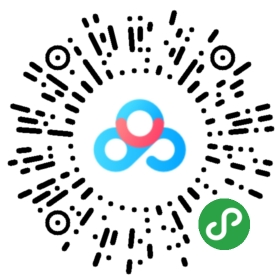
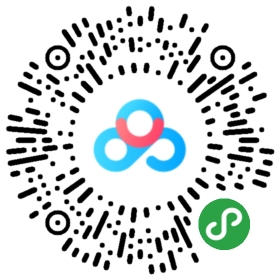
更新QR、ReadMe

Changed region(s): [[0.0, 0.0, 1.0, 1.0], [0.2571, 0.8857, 0.3143, 0.9429], [0.2286, 0.8286, 0.2571, 0.8857]]

diff --git a/README.md b/README.md
@@ -21,11 +21,11 @@ web-mobile ：
 
 android app
 ----------------------------------------------------
-自架服务器：http://129.211.157.233:9279/DreamVortexDownload/DreamVortex-release-signed-201911302308.apk
+自架服务器：http://129.211.157.233:9279/DreamVortexDownload/DreamVortex-release-signed-201912020150.apk
 
 ![Image text](https://github.com/Rythenov/DreamVortex-CocosCreator-Game/blob/master/assets/resources/QR/ApkQR.png)
 
-百度云微信扫一扫：https://pan.baidu.com/s/1UYnEhvbNK-5H1RmHilAePg 
+百度云微信扫一扫：https://pan.baidu.com/s/1zH--0Ndy6dyfdXxXOVAyIQ
 
 ![Image text](https://github.com/Rythenov/DreamVortex-CocosCreator-Game/blob/master/assets/resources/QR/ApkBaiduNetDiskQR.png)
 
@@ -33,18 +33,30 @@ android app
 
 
 # 更新日志
+2019-12-03 23：06 更新
+----------------------------------
+commit：
+1.封装部分资源读取函数到window.Global。
+2.实现动态加载json。
+3.完善Main界面，添加滚动背景、滚动按钮、头像按职业读取、经验条（此处图片资源没做好）、玩家名称显示、按钮阴影效果。
+4.添加Card、Attack、Shop界面，添加简单的返回方便调试。
+on the way:
+工作日少量更新该项目，主要学习Nodejs服务器开发，先把服务器架起来，请关注：https://github.com/Rythenov/DreamVortex-Server-NodeJs
+1.实现登录、注册。
+2.实现用户信息的保存与拉取。
+
+
+
 2019-11-30  22：37 更新
 -----------------------------------------------------
-目前包含登录和创建角色界面
-登录：Hello.fire
-创建角色：createPlayer.fire
+目前包含登录和创建角色界面。
+登录：Hello.fire。
+创建角色：createPlayer.fire。
 
 
 
 2019-11-29 23：00 更新
 -------------------------
-算是一个cocos creator js学习项目
-
-目前想做成卡牌游戏但是具体的玩法细节还没有思考
-
-先学习开发吧，资源随便弄的，慢慢迭代
+算是一个cocos creator js学习项目。
+目前想做成卡牌游戏但是具体的玩法细节还没有思考。
+先学习开发吧，资源随便弄的，慢慢迭代。
